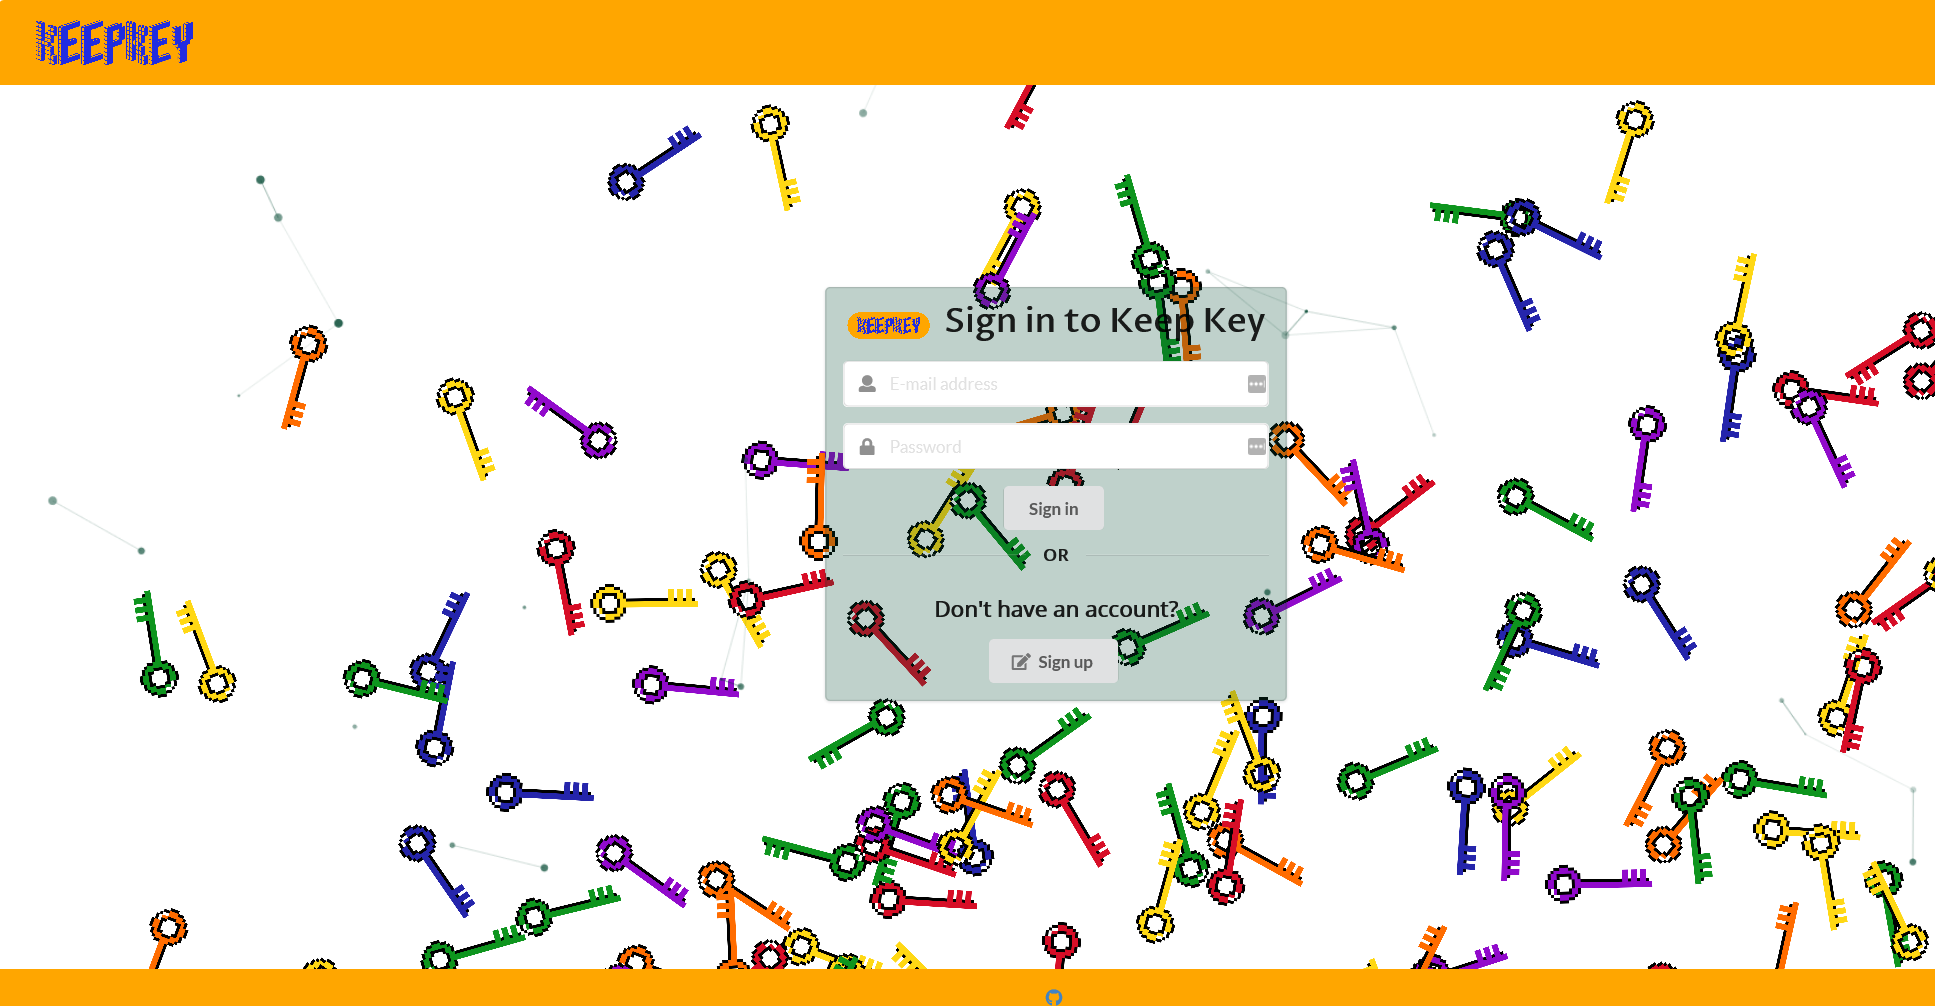
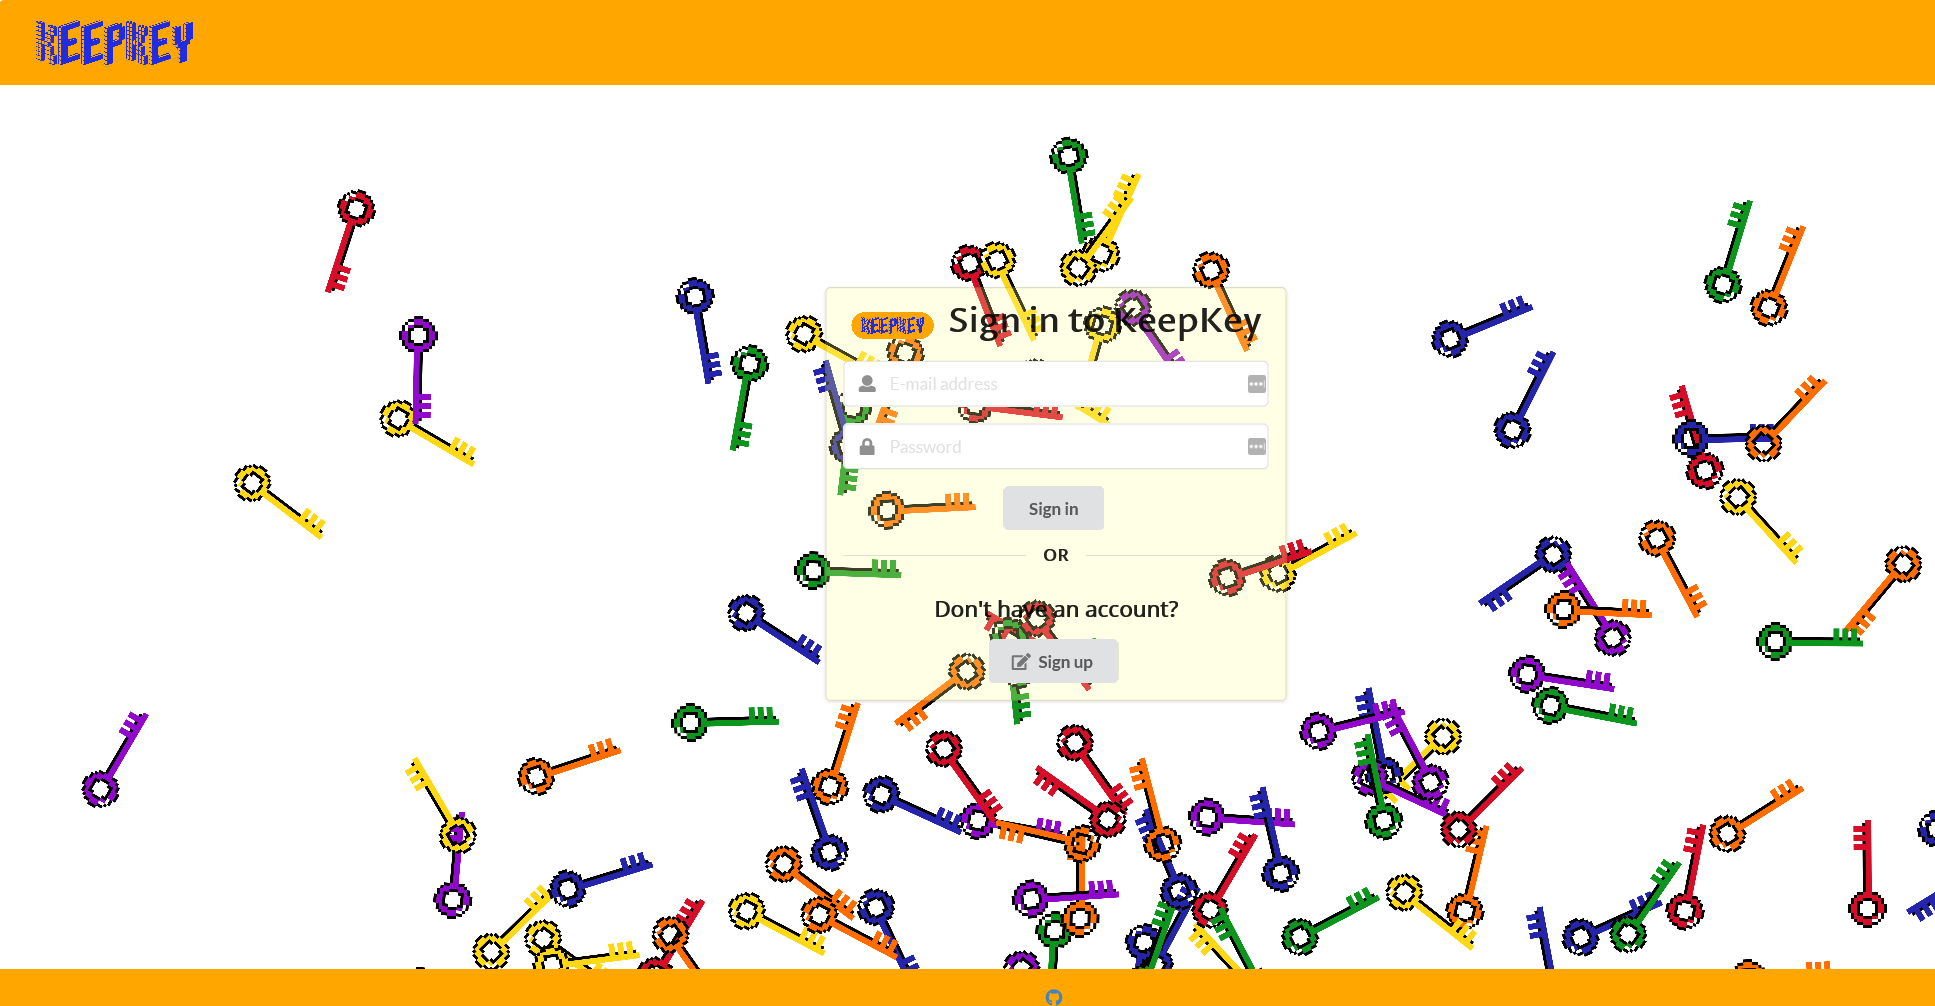
finalized app

diff --git a/app/imports/ui/pages/EditProfile.jsx b/app/imports/ui/pages/EditProfile.jsx
@@ -9,17 +9,13 @@ import SimpleSchema from 'simpl-schema';
 import { _ } from 'meteor/underscore';
 import PropTypes from 'prop-types';
 import { withTracker } from 'meteor/react-meteor-data';
-import ParticlesBg from 'particles-bg';
-import MultiSelectField from '../forms/controllers/MultiSelectField';
 import { updateProfileMethod } from '../../startup/both/Methods';
-import { Interests } from '../../api/interests/Interests';
 
-const makeSchema = (clubInterests) => new SimpleSchema({
+// eslint-disable-next-line no-unused-vars
+const makeSchema = (profileSchema) => new SimpleSchema({
   firstName: { type: String, label: 'First Name' },
   lastName: { type: String, label: 'Last Name' },
-  interests: { type: Array, label: 'Interests', optional: true },
-  'interests.$': { type: String, allowedValues: clubInterests },
-  picture: { type: String, label: 'Profile Picture', optional: true },
+  password: { type: String, label: 'Password' },
 });
 
 /** Renders the Page for editing a single document. */
@@ -41,30 +37,28 @@ class EditProfile extends React.Component {
   }
 
   renderPage() {
-    const clubInterests = _.pluck(Interests.find().fetch(), 'interest');
-    const formSchema = makeSchema(clubInterests);
+    let fRef = null;
+    const profileSchema = null;
+    const formSchema = makeSchema(profileSchema);
     const user = Meteor.user().profile;
     const model = _.extend({}, user);
-    let fRef = null;
     return (
       <div>
         <Grid textAlign='center' style={{ height: '75vh' }} verticalAlign='middle'>
           <Grid.Column style={{ maxWidth: 450 }}>
             <Segment className='sign-in-up'>
-              <Header as='h2' textAlign='center' className='transparent-green-box'>Edit Profile</Header>
+              <Header as='h2' textAlign='center' className='transparent-box'>Edit Profile</Header>
               <AutoForm ref={ref => { fRef = ref; }} schema={formSchema}
                         onSubmit={data => this.submit(data, fRef)} model={model} showInlineError >
                 <TextField name='firstName' />
                 <TextField name='lastName' />
-                <MultiSelectField name='interests' />
-                <TextField name='picture' />
+                <TextField name='password' />
                 <SubmitField value='Submit' />
                 <Link to="/profile"><Button>Back</Button></Link>
               </AutoForm>
             </Segment>
           </Grid.Column>
         </Grid>
-        <ParticlesBg color='#024731' num={30} type='cobweb' bg={true} />
       </div>
     );
   }
@@ -75,9 +69,8 @@ EditProfile.propTypes = {
 };
 
 export default withTracker(() => {
-  const subscription = Meteor.subscribe('Interests');
   const profile = Meteor.user() !== undefined;
   return {
-    ready: subscription.ready() && profile,
+    ready: profile,
   };
 })(EditProfile);

diff --git a/app/client/style.css b/app/client/style.css
@@ -4,12 +4,6 @@ div, h1, h2, h3, h4 {
   font-family: "Noto Sans", sans-serif !important;
 }
 
-/** NavBar */
-.ui.tiny.image {
-  width: 60px !important;
-  height: auto;
-}
-
 /** Landing Page */
 .landing-visuals {
   position: relative;
@@ -51,33 +45,6 @@ div, h1, h2, h3, h4 {
   color: black !important;
 }
 
-.accordion-section {
-  background-color: rgba(14,29,42,0.05);
-  margin-bottom: -30px;
-  padding: 30px 0;
-}
-
-.accordion-title {
-  font-family: "Proza Libre", sans-serif !important;
-  font-size: 20px !important;
-}
-
-.accordion-content {
-  font-family: "Open Sans", sans-serif !important;
-  font-size: 15px !important;
-}
-
-#cursor {
-  border-left: .1em solid rgba(0,0,0,0.6);
-  animation: blink .7s steps(1) infinite;
-}
-
-@keyframes blink {
-  50% {
-    border-color: transparent;
-  }
-}
-
 /** Footer */
 #footer {
   margin-top: 15px;
@@ -98,38 +65,15 @@ div, h1, h2, h3, h4 {
 
 /** Sign in and up */
 .sign-in-up {
-  background-color: rgba(2, 71, 49, 0.25) !important;
+  background-color: rgba(255, 166, 0, 0.25) !important;
 }
 
-.transparent-green-box {
+.transparent-box {
   font-family: "Proza Libre", sans-serif !important;
 }
 
 .sign-in-up-subtext {
   font-family: "Open Sans", sans-serif !important;
-}
-
-/** Club Card */
-#contact-card {
-  max-width: 90%;
-}
-
-#card-image {
-  width: 100%;
-  height: auto;
-  margin: 0px;
-}
-
-#modal-image {
-  width: auto;
-  height: 100%;
-  margin: 0px;
-  max-height: 175px;
-  max-width: 400px;
-}
-
-#card-rank {
-  float: right;
 }
 
 /** Profile Page */
@@ -151,14 +95,6 @@ div, h1, h2, h3, h4 {
   background-color: transparent !important;
   border: none !important;
   display: contents !important;
-}
-
-.fav-rec {
-  display: block !important;
-}
-
-#noClubs {
-  font-size: 20px;
 }
 
 .ui.modal {

diff --git a/app/imports/ui/pages/Signin.jsx b/app/imports/ui/pages/Signin.jsx
@@ -3,7 +3,6 @@ import PropTypes from 'prop-types';
 import { Link, Redirect } from 'react-router-dom';
 import { Meteor } from 'meteor/meteor';
 import { Header, Divider, Form, Grid, Message, Button, Image, Segment } from 'semantic-ui-react';
-import ParticlesBg from 'particles-bg';
 import Sky from 'react-sky';
 
 /**
@@ -48,8 +47,8 @@ export default class Signin extends React.Component {
           <Grid textAlign='center' style={{ height: '75vh' }} verticalAlign='middle'>
             <Grid.Column style={{ maxWidth: 450 }}>
               <Segment className='sign-in-up'>
-                <Header as='h1' textAlign='center' className='transparent-green-box'>
-                  <Image src='../images/KeepKeyLogoBack.png'/>Sign in to Keep Key</Header>
+                <Header as='h1' textAlign='center' className='transparent-box'>
+                  <Image src='../images/KeepKeyLogoBack.png'/>Sign in to KeepKey</Header>
                 <Form onSubmit={this.submit}>
                   <Form.Input
                       icon="user"
@@ -101,7 +100,6 @@ export default class Signin extends React.Component {
               size={'100px'}
               background={'palettedvioletred'}
           />
-          <ParticlesBg color='#024731' num={30} type='cobweb' bg={true} />
         </div>
     );
   }

diff --git a/app/imports/ui/pages/Signup.jsx b/app/imports/ui/pages/Signup.jsx
@@ -3,7 +3,6 @@ import PropTypes from 'prop-types';
 import { Link, Redirect } from 'react-router-dom';
 import { Header, Divider, Form, Grid, Segment, Message, Button, Image } from 'semantic-ui-react';
 import { Accounts } from 'meteor/accounts-base';
-import ParticlesBg from 'particles-bg';
 import Sky from 'react-sky';
 
 /**
@@ -54,8 +53,8 @@ class Signup extends React.Component {
         <Grid textAlign='center' style={{ height: '75vh' }} verticalAlign='middle'>
           <Grid.Column style={{ maxWidth: 450 }}>
             <Segment className='sign-in-up'>
-            <Header as='h1' textAlign='center' className='transparent-green-box' >
-              <Image src='../images/KeepKeyLogoBack.png'/>Sign up for Keep Key</Header>
+            <Header as='h1' textAlign='center' className='transparent-box' >
+              <Image src='../images/KeepKeyLogoBack.png'/>Sign up for KeepKey</Header>
             <Form onSubmit={this.submit}>
               <Form.Input
                   name="firstName"
@@ -119,7 +118,6 @@ class Signup extends React.Component {
             size={'100px'}
             background={'palettedvioletred'}
         />
-        <ParticlesBg color='#024731' num={30} type='cobweb' bg={true} />
       </div>
     );
   }

diff --git a/app/imports/ui/pages/Profile.jsx b/app/imports/ui/pages/Profile.jsx
@@ -1,5 +1,5 @@
 import React from 'react';
-import { Card, Button, Container, Header} from 'semantic-ui-react';
+import { Card, Button, Container, Header } from 'semantic-ui-react';
 import 'uniforms-bridge-simple-schema-2'; // required for Uniforms
 import { Meteor } from 'meteor/meteor';
 import { Link } from 'react-router-dom';
@@ -20,7 +20,7 @@ class Profile extends React.Component {
                 <Button basic>Edit</Button>
               </Link>
                <Link to='/removed'>
-                <Button class="button1" onClick={Meteor.users.remove({_id: this.userId})} >Delete Account</Button>
+                <Button class="button1" onClick={Meteor.users.remove({ _id: this.userId })}>Delete Account</Button>
                </Link>
             </Card.Content>
           </Card>

diff --git a/app/imports/ui/pages/Removed.jsx b/app/imports/ui/pages/Removed.jsx
@@ -2,13 +2,14 @@ import React from 'react';
 import { Meteor } from 'meteor/meteor';
 import { Header } from 'semantic-ui-react';
 
-/** After the user clicks the "Delete Account" link in the Profile Page, It deletes the account and display this page. */
+/** After the user clicks the "Delete Account" link in the Profile Page,
+ * It deletes the account and display this page. */
 export default class Removed extends React.Component {
     render() {
         Meteor.logout();
         return (
             <Header as="h2" textAlign="center">
-                <p>Your Account has been removed.</p>
+                <p>Your account has been removed.</p>
             </Header>
         );
     }

diff --git a/app/imports/startup/server/Accounts.js b/app/imports/startup/server/Accounts.js
@@ -12,6 +12,7 @@ function createUser(email, password, firstName, lastName) {
     profile: {
       firstName: firstName,
       lastName: lastName,
+      password: password,
     },
   });
 }
@@ -21,7 +22,7 @@ if (Meteor.users.find().count() === 0) {
   if (Meteor.settings.defaultAccounts) {
     console.log('Creating the default user(s)');
     Meteor.settings.defaultAccounts.map(({ email, password, profile }) => createUser(
-        email, password, profile.firstName, profile.lastName,
+        email, password, profile.firstName, profile.lastName, profile.password,
     ));
   } else {
     console.log('Cannot initialize the database!  Please invoke meteor with a settings file.');

diff --git a/app/imports/startup/both/Methods.js b/app/imports/startup/both/Methods.js
@@ -3,14 +3,13 @@ import { Meteor } from 'meteor/meteor';
 const updateProfileMethod = 'Profile.Update';
 
 Meteor.methods({
-  'Profile.Update'({ firstName, lastName, interests, picture }) {
+  'Profile.Update'({ password, firstName, lastName }) {
     const id = Meteor.user()._id;
     Meteor.users.update({ _id: id }, { $set: {
-        profile: {
+      profile: {
           firstName: firstName,
           lastName: lastName,
-          interests: interests,
-          picture: picture,
+          password: password,
         },
       } });
   },

diff --git a/app/imports/ui/layouts/App.jsx b/app/imports/ui/layouts/App.jsx
@@ -16,7 +16,7 @@ import Signout from '../pages/Signout';
 import MyKeys from '../pages/MyKeys';
 import Profile from '../pages/Profile';
 import EditProfile from '../pages/EditProfile';
-import Removed from "../pages/Removed";
+import Removed from '../pages/Removed';
 
 /** Top-level layout component for this application. Called in imports/startup/client/startup.jsx. */
 class App extends React.Component {

diff --git a/README.md b/README.md
@@ -1,8 +1,11 @@
 # KeepKey
-Password management application created for ICS 427
+Password management application created for ICS 427 [ScuffedGang/KeeyKey](https://github.com/ScuffedGang/KeepKey)
 
 ### Project Board
 [KeepKey's Project Board](https://github.com/ScuffedGang/KeepKey/projects/1)
+
+#### What is Keep Key?
+See [wiki](https://github.com/ScuffedGang/KeepKey/wiki)
 
 ### Developers
 Bailey Borengasser (baileykb)
@@ -12,3 +15,52 @@ Michael Johnson (mj66)
 Kevin Nguyen (nk279)
 
 Nathan Zenger (nzenger)
+
+#### Closing Thoughts
+
+
+#### Developer Guide
+This section provides information of interest to Meteor developers wishing to use this code base as a basis for their own development tasks.
+
+##### Installation
+
+First, [install Meteor](https://www.meteor.com/install).
+
+Second, visit the [KeepKey Application Repo](https://github.com/ScuffedGang/KeepKey), and fork the repo or download the ZIP file.
+
+Third, cd into the KeepKey/app directory and install libraries with:
+
+```
+meteor npm install
+```
+
+Fourth, run the system with:
+
+```
+meteor npm run start
+```
+
+If all goes well, the application will appear at [http://localhost:3000](http://localhost:3000).
+
+##### Application Design
+
+KeepKey is based upon [meteor-application-template-react](https://ics-software-engineering.github.io/meteor-application-template-react/) and [meteor-example-form-react](https://ics-software-engineering.github.io/meteor-example-form-react/). Please use the videos and documentation at those sites to better acquaint yourself with the basic application design and form processing in KeepKey.
+
+#### Initialization
+
+The [config](https://github.com/ScuffedGang/KeepKey/tree/main/config) directory is intended to hold settings files.  The repository contains one file: [config/settings.development.json](https://github.com/ScuffedGang/KeepKey/blob/main/config/settings.development.json).
+
+This file contains default definitions for Profiles.
+
+#### Quality Assurance
+
+##### ESLint
+KeepKey includes a [.eslintrc](https://github.com/ScuffedGang/KeepKey/blob/master/app/.eslintrc) file to define the coding style adhered to in this application. You can invoke ESLint from the command line as follows:
+
+```
+meteor npm run lint
+```
+
+ESLint should run without generating any errors.
+
+It's significantly easier to do development with ESLint integrated directly into your IDE (such as IntelliJ).

diff --git a/DISCLAIMER.md b/DISCLAIMER.md
@@ -1,0 +1,3 @@
+Disclaimer
+
+The software is licensed "as-is." You bear the risk of using it. ScuffedGang gives no express warranties, guarantees or conditions. You may have additional consumer rights under your local laws which this agreement cannot change. To the extent permitted under your local laws, ScuffedGang excludes the implied warranties of merchantability, fitness for a particular purpose and non-infringement.
